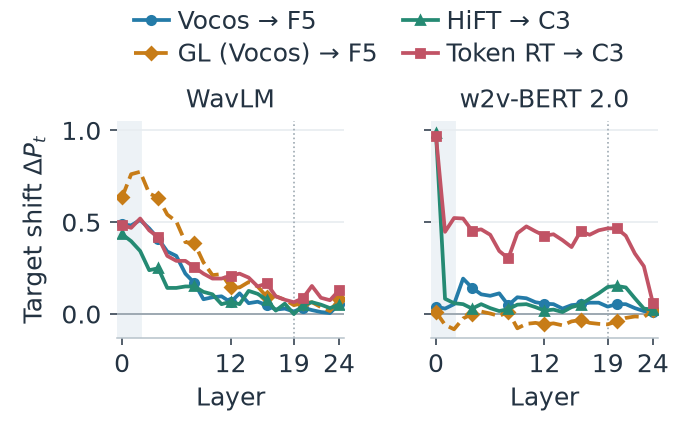
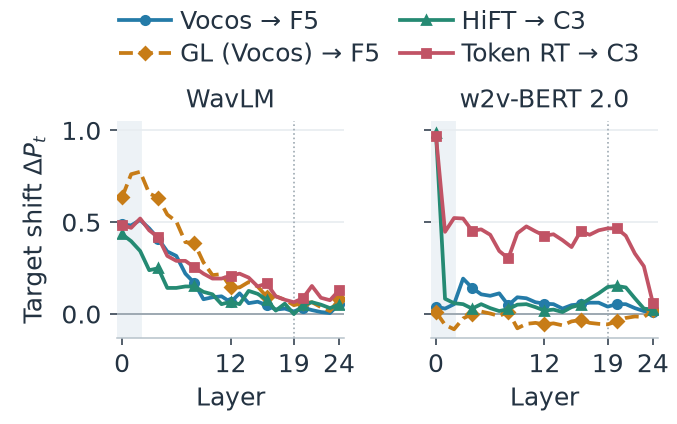
Show the dashed line style in the layer figure legend

Changed region(s): [[0.5894, 0.0, 0.9616, 0.1533], [0.1551, 0.0307, 0.4653, 0.1533], [0.4963, 0.092, 0.5583, 0.1533]]

diff --git a/src/plot_figures2.py b/src/plot_figures2.py
@@ -273,7 +273,7 @@ def fig_interv_layers():
     axes[0].set_ylabel(r"Target shift $\Delta P_t$", labelpad=5)
     axes[1].tick_params(labelleft=False)
     fig.legend(handles=handles, loc="upper center", bbox_to_anchor=(.56, 1), ncol=2, frameon=False,
-               handlelength=1.4, handletextpad=.35, columnspacing=1.0, borderaxespad=0, labelspacing=.3)
+               handlelength=2.1, handletextpad=.35, columnspacing=.8, borderaxespad=0, labelspacing=.3)
     assert_inside(fig, "fig2_interv_layers")
     save(fig, "fig2_interv_layers")
 
